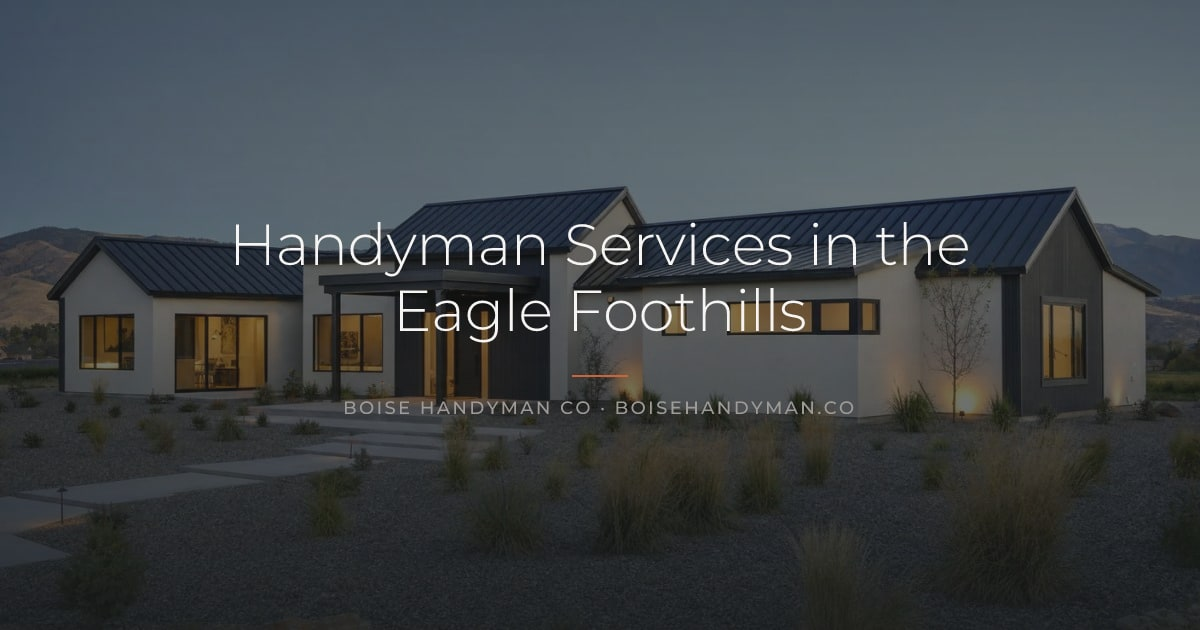
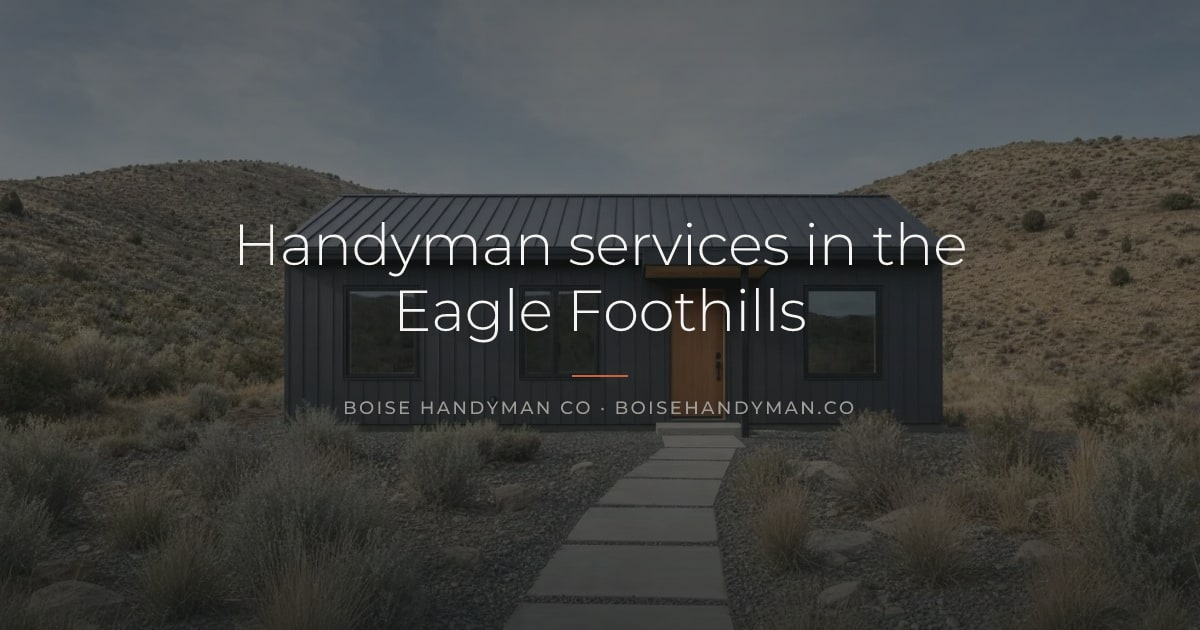
Remove repeated photographs from blog, guides and articles
- Blog index hero is a picture no card uses; category heroes come from a
  separate HUB_HERO list so a hero never repeats a card on its page.
- The Eagle Foothills guide gets its own foothills photograph; two permit
  posts and two quote posts no longer share a hero.
- Related resources skip the article's inline figures as well as its hero.
- The blog registry generator carries the Hidden Springs and Harris Ranch
  keys it had drifted from, so images:blog is safe to run.
- Five social cards regenerated; image versions updated.

Claude-Session: https://claude.ai/code/session_017rQia1jxFico3Zmbp89PGh

diff --git a/scripts/generate-blog-image-registry.ts b/scripts/generate-blog-image-registry.ts
@@ -228,6 +228,21 @@ const LIBRARY = {
     src: area('kuna'),
     alt: 'A single-story stucco home with a dark metal roof and a wood-clad entry, with sagebrush in front and mountains beyond',
   },
+  // Added 19 November 2026 (every-page sweep): the generator had drifted from the
+  // registry, which already gave these two guides their own street photographs.
+  hiddenSpringsArea: {
+    src: area('boise-hidden-springs'),
+    alt: 'White two-story homes with covered porches on a street below a green hillside',
+  },
+  harrisRanchArea: {
+    src: area('boise-harris-ranch'),
+    alt: 'Two-story homes with grey lap siding and small covered entries below a dry foothill',
+  },
+  // A foothills photograph so the Eagle and Eagle Foothills guides stop sharing one picture.
+  eagleFoothillsArea: {
+    src: area('eagle-foothills'),
+    alt: 'A small dark-sided single-story home with a metal roof and a wood door, set among sagebrush below dry foothills',
+  },
 } as const;
 
 type LibraryKey = keyof typeof LIBRARY;
@@ -281,7 +296,7 @@ const BY_SLUG: Record<string, LibraryKey> = {
   'what-small-home-repairs-cost-boise': 'doorLock',
   'drywall-repair-cost-boise': 'drywall',
   'why-handyman-quotes-vary': 'underSink',
-  'how-to-compare-handyman-quotes': 'estimate',
+  'how-to-compare-handyman-quotes': 'materials',
   'hourly-rate-vs-flat-rate-handyman': 'doorWork',
   'how-to-budget-home-repairs-boise': 'caulkGap',
   'home-maintenance-budget-idaho': 'baseboardCaulk',
@@ -291,7 +306,7 @@ const BY_SLUG: Record<string, LibraryKey> = {
   'what-to-expect-first-handyman-visit': 'porch',
   'diy-vs-hiring-a-handyman': 'paintWall',
   'who-supplies-materials-handyman-jobs': 'fenceBoards',
-  'ada-vs-canyon-county-permit-timelines': 'permits',
+  'ada-vs-canyon-county-permit-timelines': 'nampaArea',
   'boise-building-permit-guide': 'permits',
 
   // Exterior & outdoor
@@ -315,12 +330,22 @@ const BY_SLUG: Record<string, LibraryKey> = {
   'middleton-handyman-guide': 'middletonArea',
   'nampa-handyman-guide': 'nampaArea',
   'caldwell-handyman-guide': 'caldwellArea',
-  'eagle-foothills-handyman-guide': 'eagleArea',
-  'hidden-springs-handyman-guide': 'boiseArea',
-  'harris-ranch-handyman-guide': 'boiseArea',
+  'eagle-foothills-handyman-guide': 'eagleFoothillsArea',
+  'hidden-springs-handyman-guide': 'hiddenSpringsArea',
+  'harris-ranch-handyman-guide': 'harrisRanchArea',
 };
 
-const HUB_HERO: Record<string, LibraryKey> = HUB_DEFAULT;
+/**
+ * Category page heroes. Kept apart from HUB_DEFAULT (19 November 2026): a
+ * category page lists its posts, and a hero shared with one of those cards
+ * showed the same photograph twice on the page.
+ */
+const HUB_HERO: Record<string, LibraryKey> = {
+  ...HUB_DEFAULT,
+  'costs-and-hiring': 'consult',
+  'home-maintenance': 'gutterLeaves',
+  'installs-and-upgrades': 'cabinetPulls',
+};
 
 interface Entry {
   hero: string;

diff --git a/components/marketing/RelatedPostCards.tsx b/components/marketing/RelatedPostCards.tsx
@@ -5,11 +5,14 @@ import { getBlogHeroImage, getBlogImageAlt } from "@/shared/blogImages";
 import { getCityServiceImage } from "@/shared/cityServiceImages";
 import { altForImage } from "@/shared/imageAlts";
 import { cityForSlug, localAlt, subjectForService } from "@/shared/localAlt";
+import { pageImage, READING_FALLBACK_IMAGES } from "@/shared/exploreReading";
 
 interface RelatedPostCardsProps {
   path: string;
   title?: string;
   limit?: number;
+  /** Photographs already on the page (inline figures); no card repeats them. */
+  pageImages?: readonly string[];
 }
 
 const KIND_LABEL: Record<string, string> = {
@@ -38,18 +41,45 @@ export function RelatedPostCards({
   path,
   title = "Related resources",
   limit = 6,
+  pageImages = [],
 }: RelatedPostCardsProps) {
-  const links = getManifestLinks(path).slice(0, limit);
-  if (links.length === 0) return null;
+  const all = getManifestLinks(path);
+  if (all.length === 0) return null;
+
+  // No card repeats the page's own photograph or another card's (19 November
+  // 2026). Links whose photograph is free come first, in manifest order; a
+  // link whose photograph is taken is used only to fill a row, with a general
+  // picture (tools, paperwork, a front door) described as what it shows.
+  const taken = new Set<string>();
+  const own = pageImage(path);
+  if (own) taken.add(own);
+  for (const src of pageImages) taken.add(src.split('?')[0]);
+  const withImage = all.map((link) => ({ link, image: linkImage(link) }));
+  const distinct: typeof withImage = [];
+  const repeats: typeof withImage = [];
+  for (const entry of withImage) {
+    if (entry.image && !taken.has(entry.image.src)) {
+      taken.add(entry.image.src);
+      distinct.push(entry);
+    } else {
+      repeats.push(entry);
+    }
+  }
+  const pool = distinct.slice(0, limit);
+  for (const entry of repeats) {
+    if (pool.length >= limit) break;
+    const src = READING_FALLBACK_IMAGES.find((candidate) => !taken.has(candidate));
+    if (src) taken.add(src);
+    pool.push({ link: entry.link, image: src ? { src, alt: altForImage(src) ?? localAlt("Handyman tools and paperwork") } : undefined });
+  }
 
   // Three or six cards fill their rows; any other count would leave one alone.
-  const shown = links.length >= 6 ? links.slice(0, 6) : links.length >= 3 ? links.slice(0, 3) : links;
+  const shown = pool.length >= 6 ? pool.slice(0, 6) : pool.length >= 3 ? pool.slice(0, 3) : pool;
   return (
     <div>
       <h2 className="ed-h2-sm ed-statement-wide mb-8">{title}</h2>
       <div className="lx-related" data-count={shown.length}>
-        {shown.map((link) => {
-          const image = linkImage(link);
+        {shown.map(({ link, image }) => {
           return (
             <Link key={link.url} href={link.url} className="lx-related-card group" aria-label={link.anchor}>
               {image && (

diff --git a/shared/blogImageRegistry.ts b/shared/blogImageRegistry.ts
@@ -18,8 +18,8 @@ export interface BlogImageEntry {
 
 export const BLOG_IMAGE_REGISTRY: Record<string, BlogImageEntry> = {
   'ada-vs-canyon-county-permit-timelines': {
-    hero: '/images/handyman/permit-paperwork.webp',
-    alt: 'Permit paperwork and folded residential drawings on a municipal counter with a hand holding a pen',
+    hero: '/images/areas/nampa.webp',
+    alt: 'A single-story ranch house with tan siding, a brick base and a single garage, behind a bare shade tree',
     topicTags: ["permits","ada county","canyon county","home repairs","costs"],
     source: 'handyman',
   },
@@ -138,8 +138,8 @@ export const BLOG_IMAGE_REGISTRY: Record<string, BlogImageEntry> = {
     source: 'handyman',
   },
   'how-to-compare-handyman-quotes': {
-    hero: '/images/handyman/estimate-clipboard.webp',
-    alt: 'A clipboard with a blank work-order form, a carpenter\'s pencil, a tape measure and a small level on a kitchen table',
+    hero: '/images/handyman/repair-materials.webp',
+    alt: 'Assorted screws, wall anchors, and picture hangers organized in a small parts tray on a workbench',
     topicTags: ["handyman quotes","hiring a handyman","boise","pricing","costs"],
     source: 'handyman',
   },
@@ -312,8 +312,8 @@ export const BLOG_IMAGE_REGISTRY: Record<string, BlogImageEntry> = {
     source: 'handyman',
   },
   'eagle-foothills-handyman-guide': {
-    hero: '/images/areas/eagle.webp',
-    alt: 'A single-story white stucco home with a dark metal roof at dusk, set among gravel beds and ornamental grasses',
+    hero: '/images/areas/eagle-foothills.webp',
+    alt: 'A small dark-sided single-story home with a metal roof and a wood door, set among sagebrush below dry foothills',
     topicTags: ["eagle","the eagle foothills","idaho","handyman","costs"],
     source: 'handyman',
   },
@@ -333,9 +333,9 @@ export const BLOG_IMAGE_REGISTRY: Record<string, BlogImageEntry> = {
 
 export const HUB_HERO_IMAGES: Record<string, string> = {
   'repairs-and-fixes': '/images/handyman/service-electrical.webp',
-  'installs-and-upgrades': '/images/handyman/service-mounting.webp',
-  'home-maintenance': '/images/handyman/service-caulking.webp',
-  'costs-and-hiring': '/images/handyman/estimate-clipboard.webp',
+  'installs-and-upgrades': '/images/handyman/cabinet-pulls-installed.webp',
+  'home-maintenance': '/images/houses/kuna/kuna-gutter-cleaning.webp',
+  'costs-and-hiring': '/images/handyman/consult-doorstep-branded.webp',
   'exterior-and-outdoor': '/images/handyman/hero-gutter-cleaning.webp',
 };
 

diff --git a/components/marketing/BlogPostLayout.tsx b/components/marketing/BlogPostLayout.tsx
@@ -33,6 +33,7 @@ import { GuideContentBlocks,GuideJumpChips } from './GuideContentBlocks';
 import { GuideResourceDownloads } from './GuideResourceDownloads';
 import { InlineEstimateCTA } from './InlineEstimateCTA';
 import { RelatedPostCards } from './RelatedPostCards';
+import { toSentenceCase } from '@/shared/sentenceCase';
 import { Section } from './Section';
 import { SectionedArticle } from './SectionedArticle';
 
@@ -69,7 +70,7 @@ export function BlogPostLayout({ post, formatDate }: BlogPostLayoutProps) {
               { name: 'Home', href: '/' },
               { name: 'Blog', href: '/blog' },
               ...(hub && isCategoryHubIndexable(post.hubSlug, hubPosts.length)
-                ? [{ name: hub.categoryLabel ?? hub.title, href: categoryHubPath(post.hubSlug) }]
+                ? [{ name: toSentenceCase(hub.categoryLabel ?? hub.title), href: categoryHubPath(post.hubSlug) }]
                 : []),
               { name: post.title },
             ]}
@@ -201,7 +202,7 @@ export function BlogPostLayout({ post, formatDate }: BlogPostLayoutProps) {
 
       <Section spacing="sm" divider>
         <div className="container px-4 max-w-6xl mx-auto">
-          <RelatedPostCards path={blogPath} />
+          <RelatedPostCards path={blogPath} pageImages={inlineFigures.map((f) => f.src)} />
         </div>
       </Section>
 

diff --git a/app/blog/page.tsx b/app/blog/page.tsx
@@ -11,7 +11,10 @@ generateBreadcrumbSchema,
 generateCollectionPageSchema,
 } from "@/lib/schema";
 import { BLOG_POSTS } from "@/shared/blogContent";
-import { getBlogHeroImage,getBlogImageAlt } from "@/shared/blogImages";
+import { altForImage } from "@/shared/imageAlts";
+
+// The index hero is a picture no post card on this page uses (19 November 2026).
+const BLOG_INDEX_HERO = "/images/handyman/wall-prep-ladder.webp";
 import { ArrowRight } from "lucide-react";
 import { Metadata } from "next";
 import Link from "next/link";
@@ -44,8 +47,8 @@ export default function BlogPage() {
       <JsonLd data={schemas} />
 
       <PageHeroBand
-        imageSrc={getBlogHeroImage("what-small-home-repairs-cost-boise")}
-        imageAlt={getBlogImageAlt("what-small-home-repairs-cost-boise")}
+        imageSrc={BLOG_INDEX_HERO}
+        imageAlt={altForImage(BLOG_INDEX_HERO) ?? ""}
       >
         <Breadcrumbs items={[{ name: "Home", href: "/" }, { name: "Blog" }]} />
         <p className="ed-eyebrow mt-8" style={{ color: "rgb(255 255 255 / 0.72)" }}>Blog</p>

diff --git a/shared/imageAlts.ts b/shared/imageAlts.ts
@@ -124,6 +124,8 @@ const IMAGE_ALTS: Record<string, string> = {
     'A two-story white stucco home with dark siding, a two-car garage and a front lawn',
   '/images/areas/eagle.webp':
     'A single-story white stucco home with a dark metal roof at dusk, set among gravel beds and ornamental grasses',
+  '/images/areas/eagle-foothills.webp':
+    'A small dark-sided single-story home with a metal roof and a wood door, set among sagebrush below dry foothills',
   '/images/areas/nampa.webp':
     'A single-story ranch house with tan siding, a brick base and a single garage, behind a bare shade tree',
   '/images/areas/kuna.webp':

diff --git a/components/marketing/GuidePageLayout.tsx b/components/marketing/GuidePageLayout.tsx
@@ -188,7 +188,7 @@ export function GuidePageLayout({ guide, formatDate }: GuidePageLayoutProps) {
 
       <Section spacing="sm" divider>
         <div className="container px-4 max-w-6xl mx-auto">
-          <RelatedPostCards path={guideUrl} limit={8} />
+          <RelatedPostCards path={guideUrl} limit={8} pageImages={inlineFigures.map((f) => f.src)} />
         </div>
       </Section>
 
